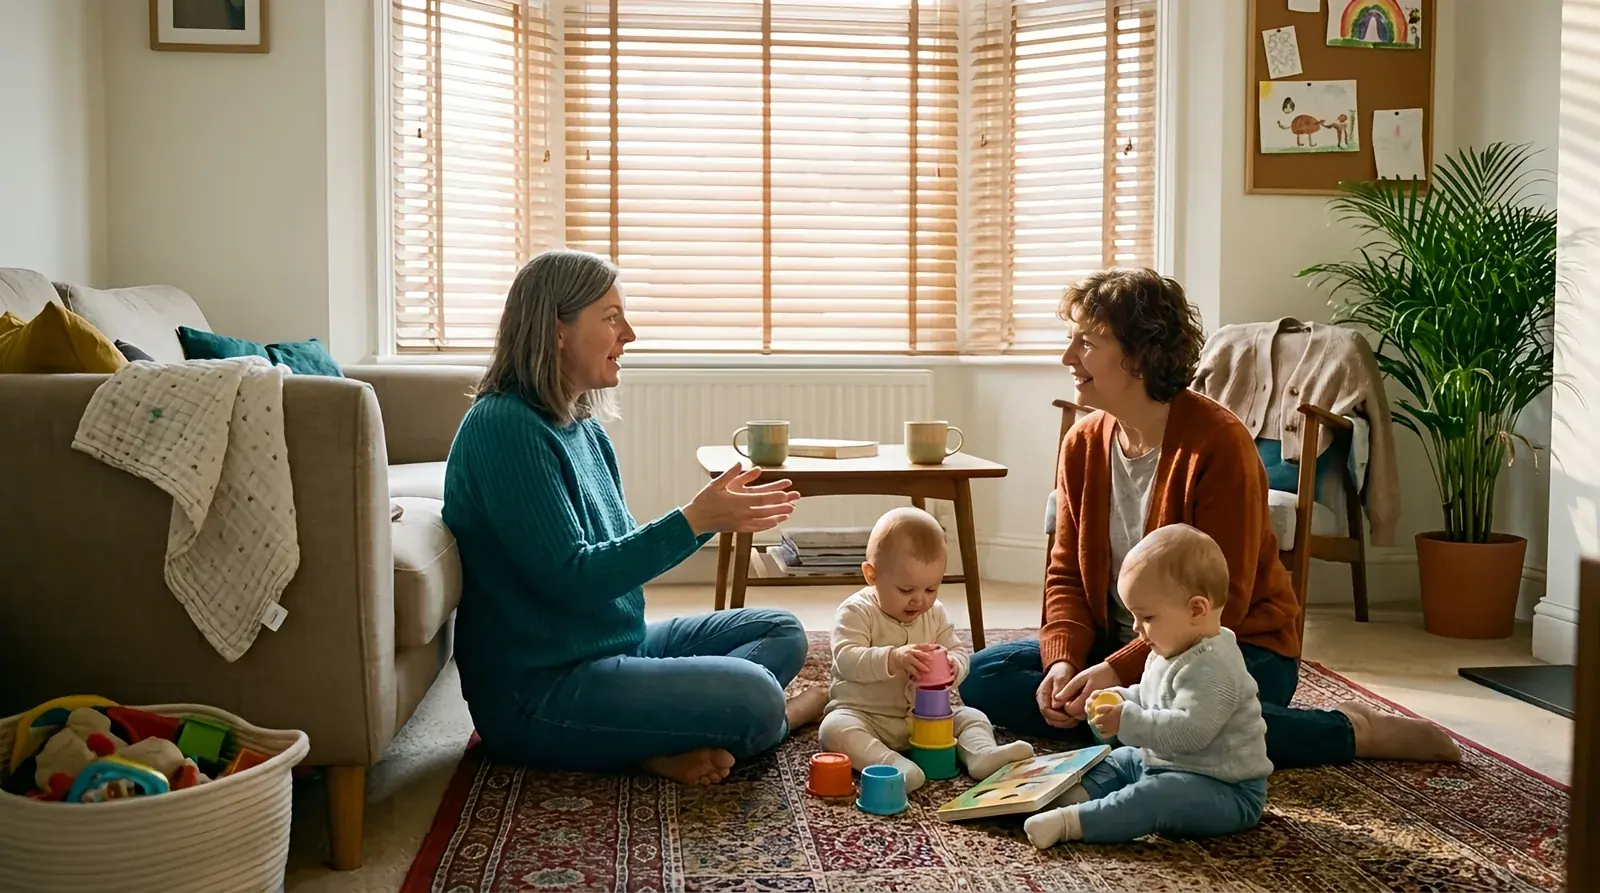
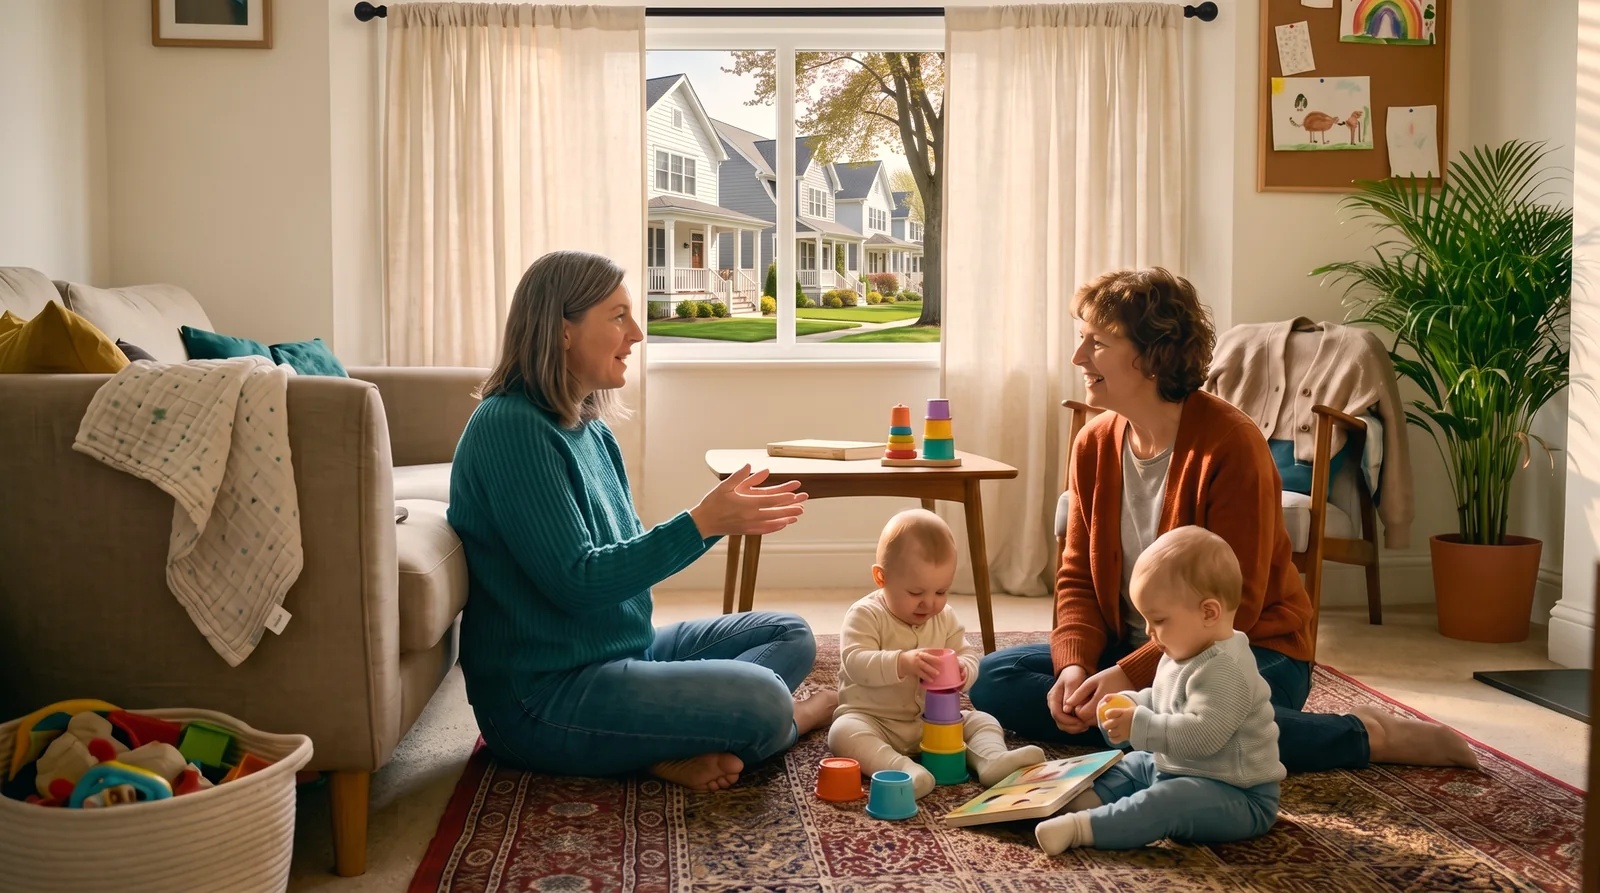
Baby wipes freedom redo: big real Charlotte kitchen; belonging curtains, no mugs, check 15

diff --git a/blog-pipeline/photos-completed/2026-08-26.md b/blog-pipeline/photos-completed/2026-08-26.md
@@ -4,7 +4,7 @@ post_title: Are Baby Wipes Safe? What You Are Wiping On a Baby Ten Times a Day (
 slug: are-baby-wipes-safe
 status: done
 cameron_processed: false
-note: "RESHOT 2026-08-23 on ImagineArt (Nano Banana Pro, each frame enhanced to 2752px then delivered at 1600px webp). THIS SUPERSEDES the 2026-08-11 version, which rendered the wipes pack completely BLANK with no branding. Same five filenames, same URLs, new images. The pack is now the REAL Pampers Sensitive: soft teal-turquoise pouch, white Pampers script wordmark with the yellow heart over the a, sensitive in a green band, white hinged flip lid. The adult is now clearly a woman of about 52 with greying hair and her baby GRANDCHILD, which fits the women 40 to 60 audience rule instead of reading as a young parent post. ONE bedroom locked by reference across hero, villain and turning point (teal duvet, mustard throw, walnut nightstand and chest of drawers, knitted rabbit, WOODEN VENETIAN BLINDS on the bay window, pale carpet). Hero is her kneeling at the bed changing the laughing baby on a mat with the Pampers pack closed beside them. Villain is the coldest frame, nobody in it: the same chest of drawers on flat grey light with the pack open, its lid propped up and one wipe pulled halfway out and gone stiff, surrounded by the honest aftermath of the morning (screwed up muslins, a cold mug of tea, a knotted nappy sack, a hairbrush, a phone face down, the bed unmade behind). Lived-in, NOT empty and NOT eerie. Turning point sits her on the edge of the bed with the closed pack resting on one knee, looking off toward the window, settled, decision already made, NOT reading the pack, the baby content beside her with the rabbit. Belonging moves to her living room rug, mid-conversation with a clearly different woman of the same age, two babies playing with stacking cups between them, mugs up on the table out of reach, no packaging in frame. Freedom is the warmest: the baby on her hip at the kitchen sink, both laughing forehead to forehead, hands being wiped with a warm flannel cloth under the tap, full golden light through the blinds, no plastic packaging anywhere. Villain is the wipe companies, never the reader. RESHOT 2026-10-04 (RESHOOT-are-baby-wipes-safe.md): the post blames Target Up and Up, and every pack in hero, villain and turning point was a branded Pampers pack, with the turning point also reading Lansitive. All three now show a completely plain pale mint pouch with a white flip lid and no wordmark or text, the option the request named best. Same woman, teal jumper, teal bed, mustard throw and bedroom kept by editing the original frames. Brought up to the current checklist at the same time: full-length linen curtains added beside the blinds in hero and turning point; the villain cropped below the window and cooled; a glass, a cold mug of tea, a phone, a clock, a mug and books removed; a book title and lettering on a knotted muslin painted out. Light measured: villain 0.98, hero 1.12, turning point 1.23, belonging 1.32, freedom 1.38. Belonging and freedom were left untouched as the request asked; note both still show blinds only, and belonging has mugs and a book on the table."
+note: "RESHOT 2026-08-23 on ImagineArt (Nano Banana Pro, each frame enhanced to 2752px then delivered at 1600px webp). THIS SUPERSEDES the 2026-08-11 version, which rendered the wipes pack completely BLANK with no branding. Same five filenames, same URLs, new images. The pack is now the REAL Pampers Sensitive: soft teal-turquoise pouch, white Pampers script wordmark with the yellow heart over the a, sensitive in a green band, white hinged flip lid. The adult is now clearly a woman of about 52 with greying hair and her baby GRANDCHILD, which fits the women 40 to 60 audience rule instead of reading as a young parent post. ONE bedroom locked by reference across hero, villain and turning point (teal duvet, mustard throw, walnut nightstand and chest of drawers, knitted rabbit, WOODEN VENETIAN BLINDS on the bay window, pale carpet). Hero is her kneeling at the bed changing the laughing baby on a mat with the Pampers pack closed beside them. Villain is the coldest frame, nobody in it: the same chest of drawers on flat grey light with the pack open, its lid propped up and one wipe pulled halfway out and gone stiff, surrounded by the honest aftermath of the morning (screwed up muslins, a cold mug of tea, a knotted nappy sack, a hairbrush, a phone face down, the bed unmade behind). Lived-in, NOT empty and NOT eerie. Turning point sits her on the edge of the bed with the closed pack resting on one knee, looking off toward the window, settled, decision already made, NOT reading the pack, the baby content beside her with the rabbit. Belonging moves to her living room rug, mid-conversation with a clearly different woman of the same age, two babies playing with stacking cups between them, mugs up on the table out of reach, no packaging in frame. Freedom is the warmest: the baby on her hip at the kitchen sink, both laughing forehead to forehead, hands being wiped with a warm flannel cloth under the tap, full golden light through the blinds, no plastic packaging anywhere. Villain is the wipe companies, never the reader. RESHOT 2026-10-04 (RESHOOT-are-baby-wipes-safe.md): the post blames Target Up and Up, and every pack in hero, villain and turning point was a branded Pampers pack, with the turning point also reading Lansitive. All three now show a completely plain pale mint pouch with a white flip lid and no wordmark or text, the option the request named best. Same woman, teal jumper, teal bed, mustard throw and bedroom kept by editing the original frames. Brought up to the current checklist at the same time: full-length linen curtains added beside the blinds in hero and turning point; the villain cropped below the window and cooled; a glass, a cold mug of tea, a phone, a clock, a mug and books removed; a book title and lettering on a knotted muslin painted out. Light measured: villain 0.98, hero 1.12, turning point 1.23, belonging 1.32, freedom 1.38. Belonging and freedom were left untouched as the request asked; note both still show blinds only, and belonging has mugs and a book on the table. Freedom redone 2026-10-12 for check 15; it was the only kitchen frame and was a tight British kitchen with wooden blinds and a built-in oven. New freedom is a wide shot of a big lived-in kitchen in a suburban house in Charlotte, North Carolina: cream shaker cabinets, a butcher block island with a high chair, stainless French-door fridge with kids drawings, dishwasher, farmhouse sink, gas range with full oven door, floor-length cream linen curtains on black rods at every window, the same grandmother laughing as she rinses the baby's hand with a washcloth, no wipes packets. Belonging (the living room) was also edited: wooden blinds swapped for floor-length cream curtains, the radiator and two mugs removed, and the brick houses outside replaced with an American street. Hero, villain and turning point kept; villain cooled. Measured R/B ramp: villain 0.83, hero 1.12, turning point 1.23, belonging 1.49, freedom 1.89."
 ---
 
 ### arebabywipe-hero-v1
